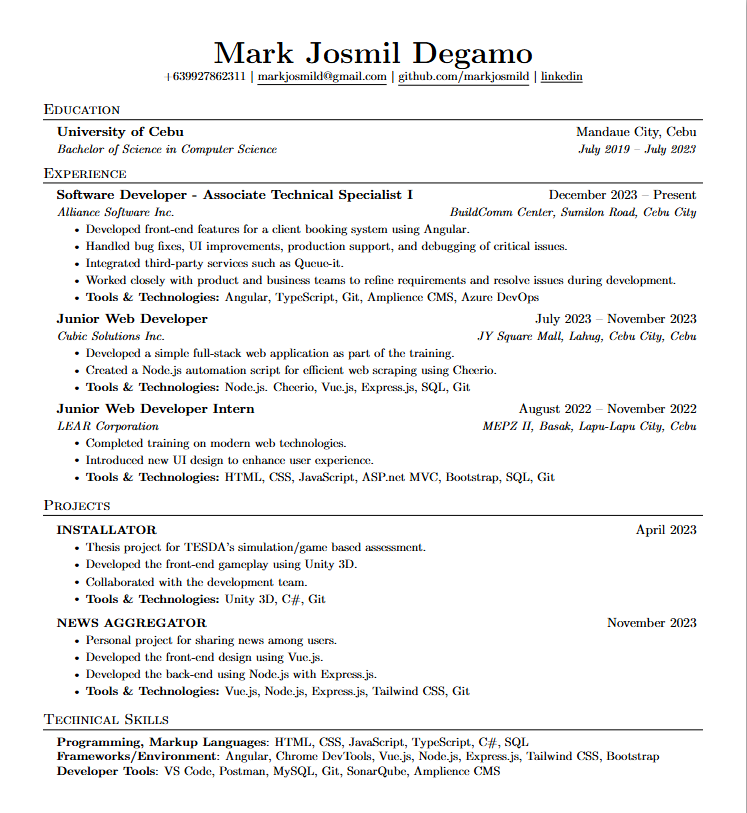
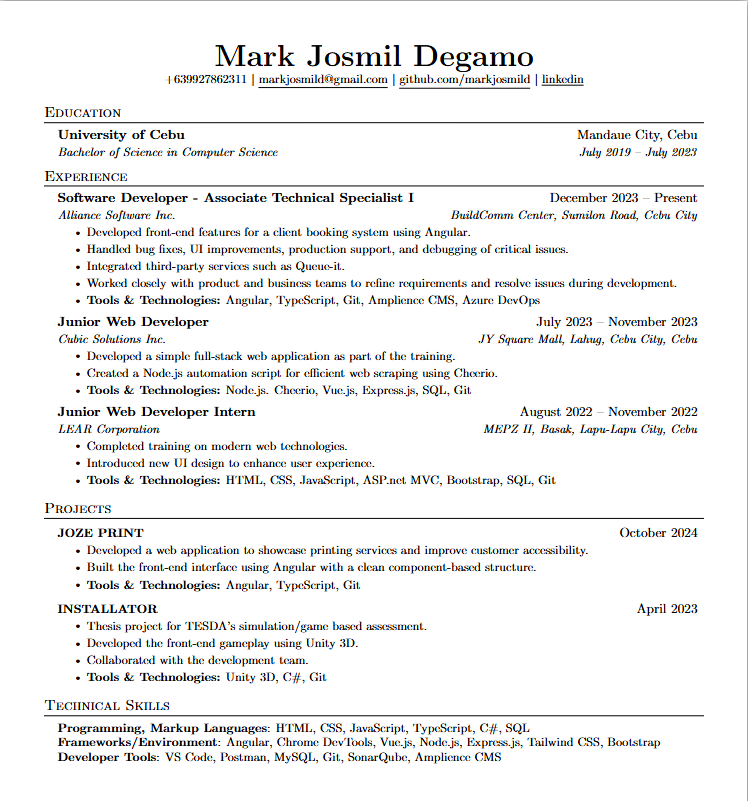
Update project list

Changed region(s): [[0.0616, 0.0312, 0.9545, 0.9675], [0.8005, 0.7491, 0.9545, 0.7803]]

diff --git a/resume.tex b/resume.tex
@@ -169,21 +169,19 @@
 \section{Projects}
     \resumeSubHeadingListStart
       \resumeProjectHeading
+          {\textbf{\href{https://jozeprint.vercel.app/}{JOZE PRINT}}}{October 2024}
+          \resumeItemListStart
+            \resumeItem{Developed a web application to showcase printing services and improve customer accessibility.}
+            \resumeItem{Built the front-end interface using Angular with a clean component-based structure.}
+            \resumeItem{\textbf{Tools \& Technologies:} Angular, TypeScript, Git}
+          \resumeItemListEnd
+        \resumeProjectHeading
           {\textbf{INSTALLATOR}}{April 2023}
           \resumeItemListStart
             \resumeItem{Thesis project for TESDA's simulation/game based assessment.}
             \resumeItem{Developed the front-end gameplay using Unity 3D.}
             \resumeItem{Collaborated with the development team.}
             \resumeItem{\textbf{Tools \& Technologies:} Unity 3D, C\#, Git}
-          \resumeItemListEnd
-        \resumeProjectHeading
-          {\textbf{NEWS AGGREGATOR}}{November 2023}
-          \resumeItemListStart
-            \resumeItem{Personal project for sharing news among users.}
-            \resumeItem{Developed the front-end design using Vue.js.}
-            \resumeItem{Developed the back-end using Node.js with Express.js.}
-            \resumeItem{\textbf{Tools \& Technologies:} Vue.js, Node.js, Express.js, Tailwind CSS, Git}
-            
           \resumeItemListEnd
     \resumeSubHeadingListEnd
 %
